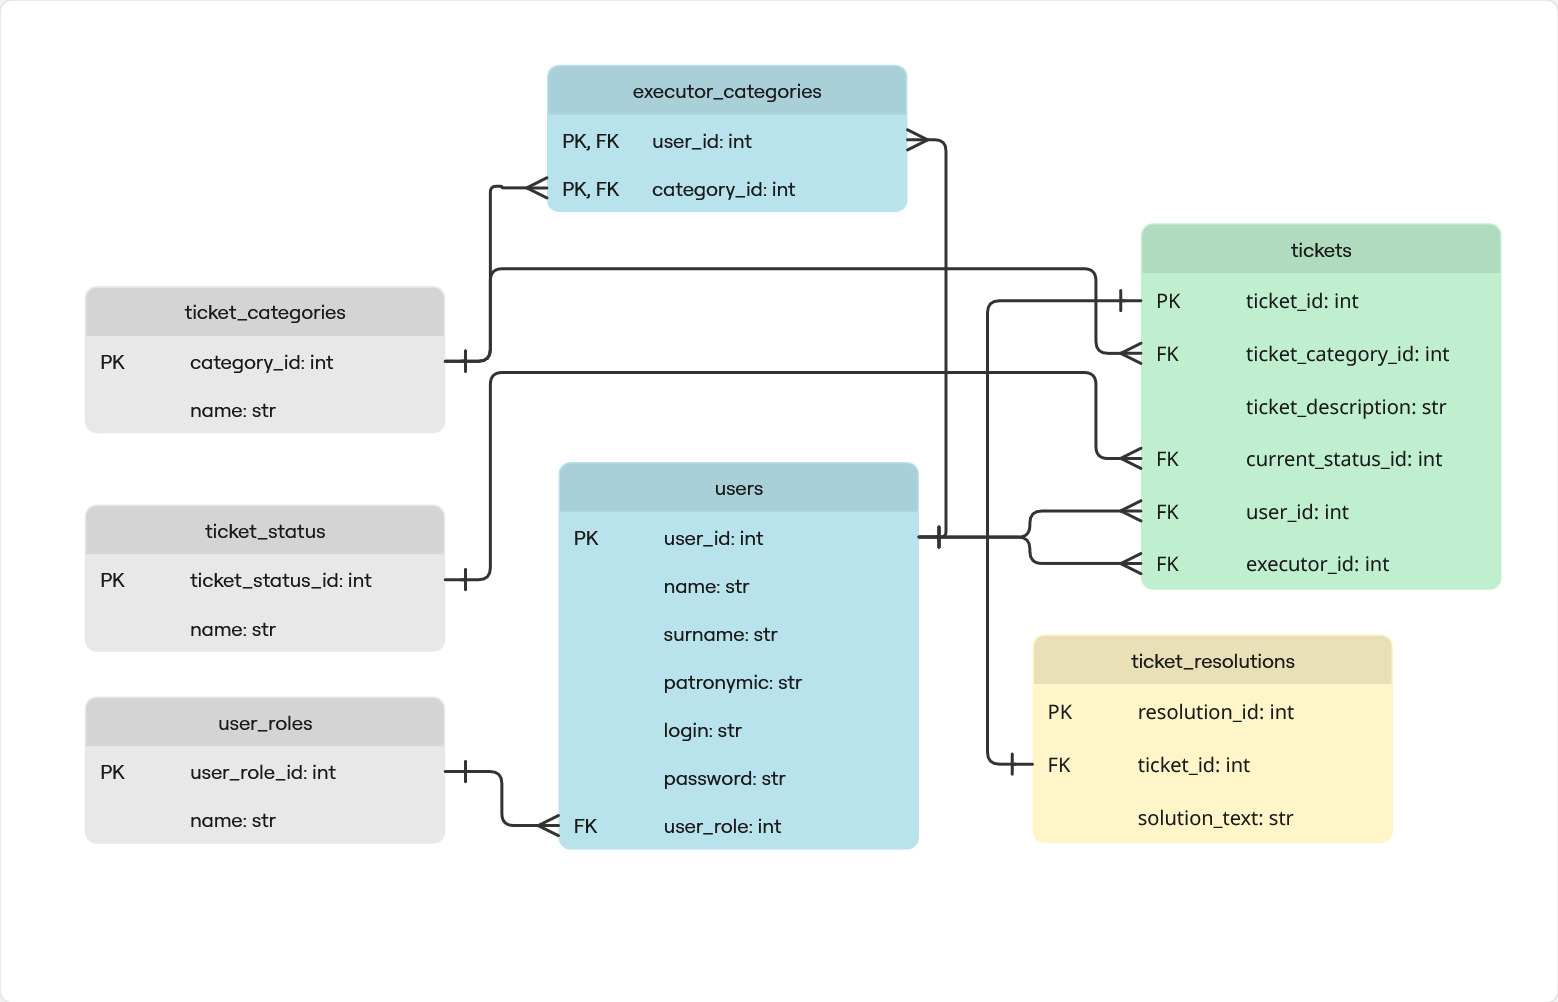
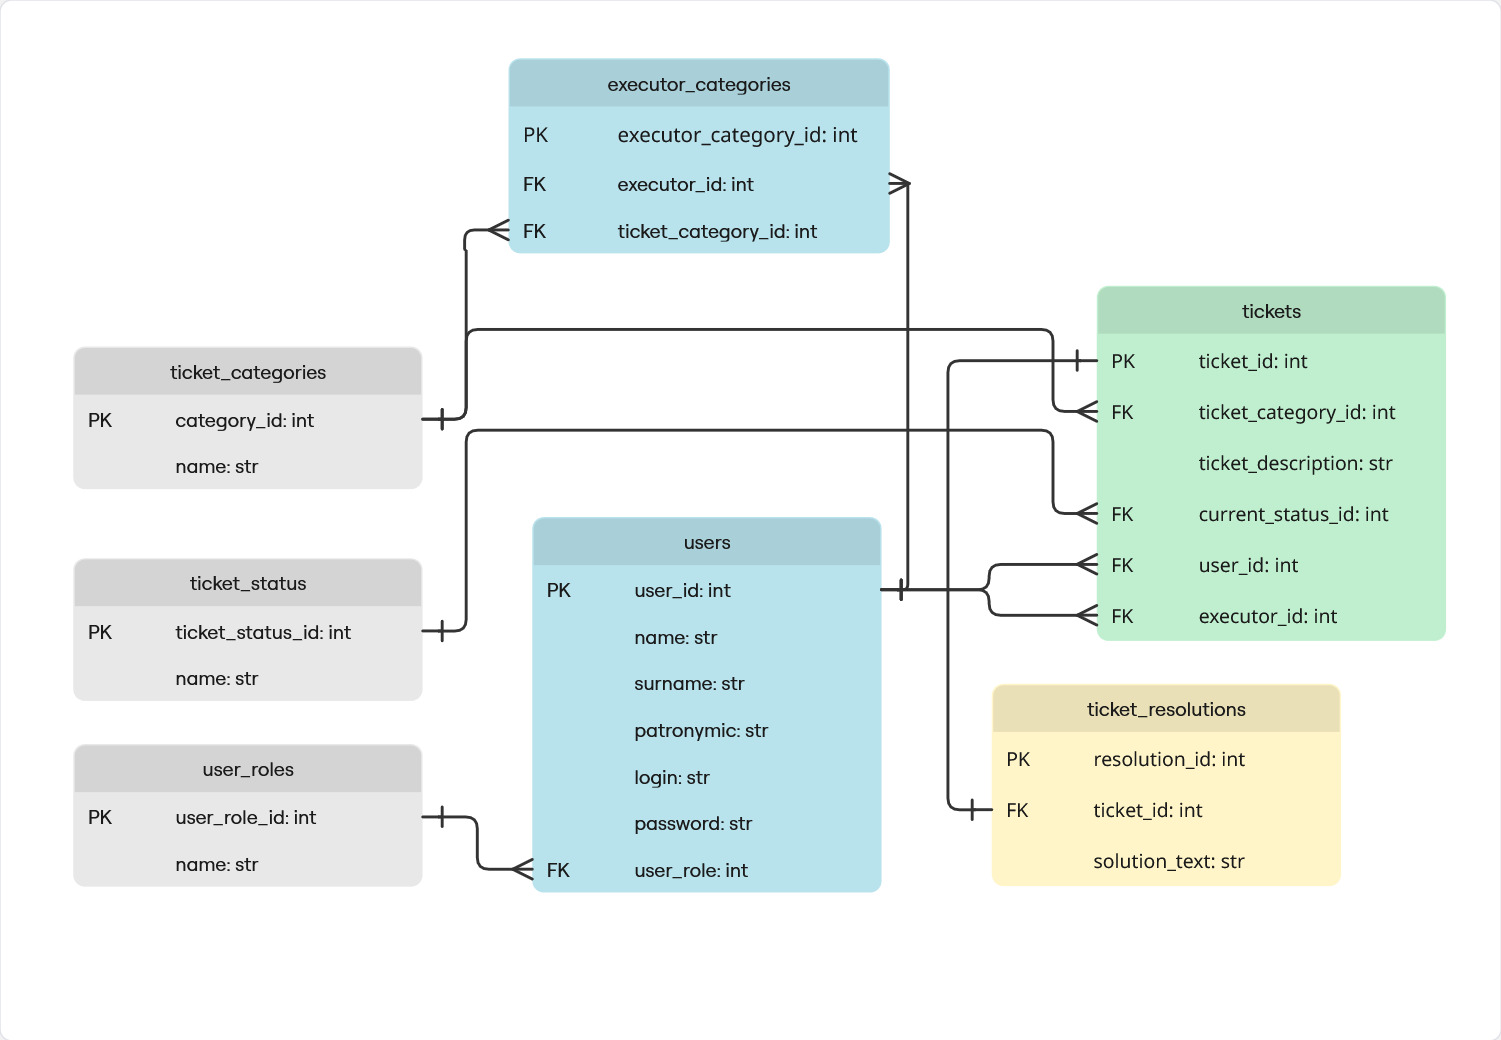
models add

Changed region(s): [[0.0306, 0.0309, 0.9807, 0.8663], [0.1226, 0.4022, 0.2145, 0.4641]]

diff --git a/src/techreq/database/techreq_db.py b/src/techreq/database/techreq_db.py
@@ -1,7 +1,7 @@
 import sqlite3
 from pathlib import Path
 
-BASE_DIR = Path(__file__).parent # Папка работы
+BASE_DIR = Path(__file__).parent # Папка работы, .parent отрезает имя и возвращает только папку
 SCHEMA_PATH = BASE_DIR / "schema.sql" # Файл sql схемы
 DB_PATH = BASE_DIR / "techreq.db" # Файл, где будет ДБ
 
@@ -19,11 +19,3 @@ def init_db():
 # Будут выведены все таблички только в том случае, если запускается techreq_db.py(Этот файл)
 if __name__ == "__main__":
     init_db()
-    for name in ("user_roles", "ticket_categories", "ticket_status", "users", 
-                  "tickets", "ticket_resolutions", "executor_categories"): 
-            conn = sqlite3.connect(DB_PATH)
-            try: tables = conn.execute(f"SELECT * FROM {name}").fetchall() # SQL запрос на получение всех столбцов из нужной таблицы
-            # fetchall превращает все строки таблиц из БД в список кортежей 
-            finally: conn.close()
-            print(f"\n\n===== {name} =====")
-            for table in tables: print(table)

diff --git a/src/techreq/models/ticket.py b/src/techreq/models/ticket.py
@@ -1,0 +1,13 @@
+from dataclasses import dataclass
+
+@dataclass
+class Ticket:
+    ticket_id: int
+    ticket_category_id: int
+    ticket_description: str
+    current_status_id: int
+    user_id: int
+    executor_id: int
+
+    ticket_category_name: str | None = None
+    current_status_name: str | None = None

diff --git a/src/techreq/models/user.py b/src/techreq/models/user.py
@@ -1,0 +1,13 @@
+from dataclasses import dataclass
+
+@dataclass
+class User:
+    user_id: int
+    name: str
+    surname: str
+    patronymic: str
+    login: str
+    password: str
+    user_role: int
+
+    user_role_name: str | None = None

diff --git a/src/techreq/models/executor_categories.py b/src/techreq/models/executor_categories.py
@@ -1,0 +1,9 @@
+from dataclasses import dataclass
+
+@dataclass
+class ExecutorCategories:
+    executor_category_id: int
+    executor_id: int
+    ticket_category_id: int
+
+    ticket_category_name: str | None = None

diff --git a/src/techreq/models/ticket_resolution.py b/src/techreq/models/ticket_resolution.py
@@ -1,0 +1,7 @@
+from dataclasses import dataclass
+
+@dataclass
+class TicketResolution:
+    resolution_id: int
+    ticket_id: int
+    solution_text: str

diff --git a/src/techreq/models/ticket_status.py b/src/techreq/models/ticket_status.py
@@ -1,0 +1,6 @@
+from dataclasses import dataclass
+
+@dataclass
+class TicketStatus:
+    ticket_status_id: int
+    name: str

diff --git a/src/techreq/models/ticket_category.py b/src/techreq/models/ticket_category.py
@@ -1,0 +1,6 @@
+from dataclasses import dataclass
+
+@dataclass
+class TicketCategory:
+    category_id: int
+    name: str

diff --git a/src/techreq/models/user_role.py b/src/techreq/models/user_role.py
@@ -1,0 +1,6 @@
+from dataclasses import dataclass
+
+@dataclass
+class UserRole:
+    user_role_id: int
+    name: str
